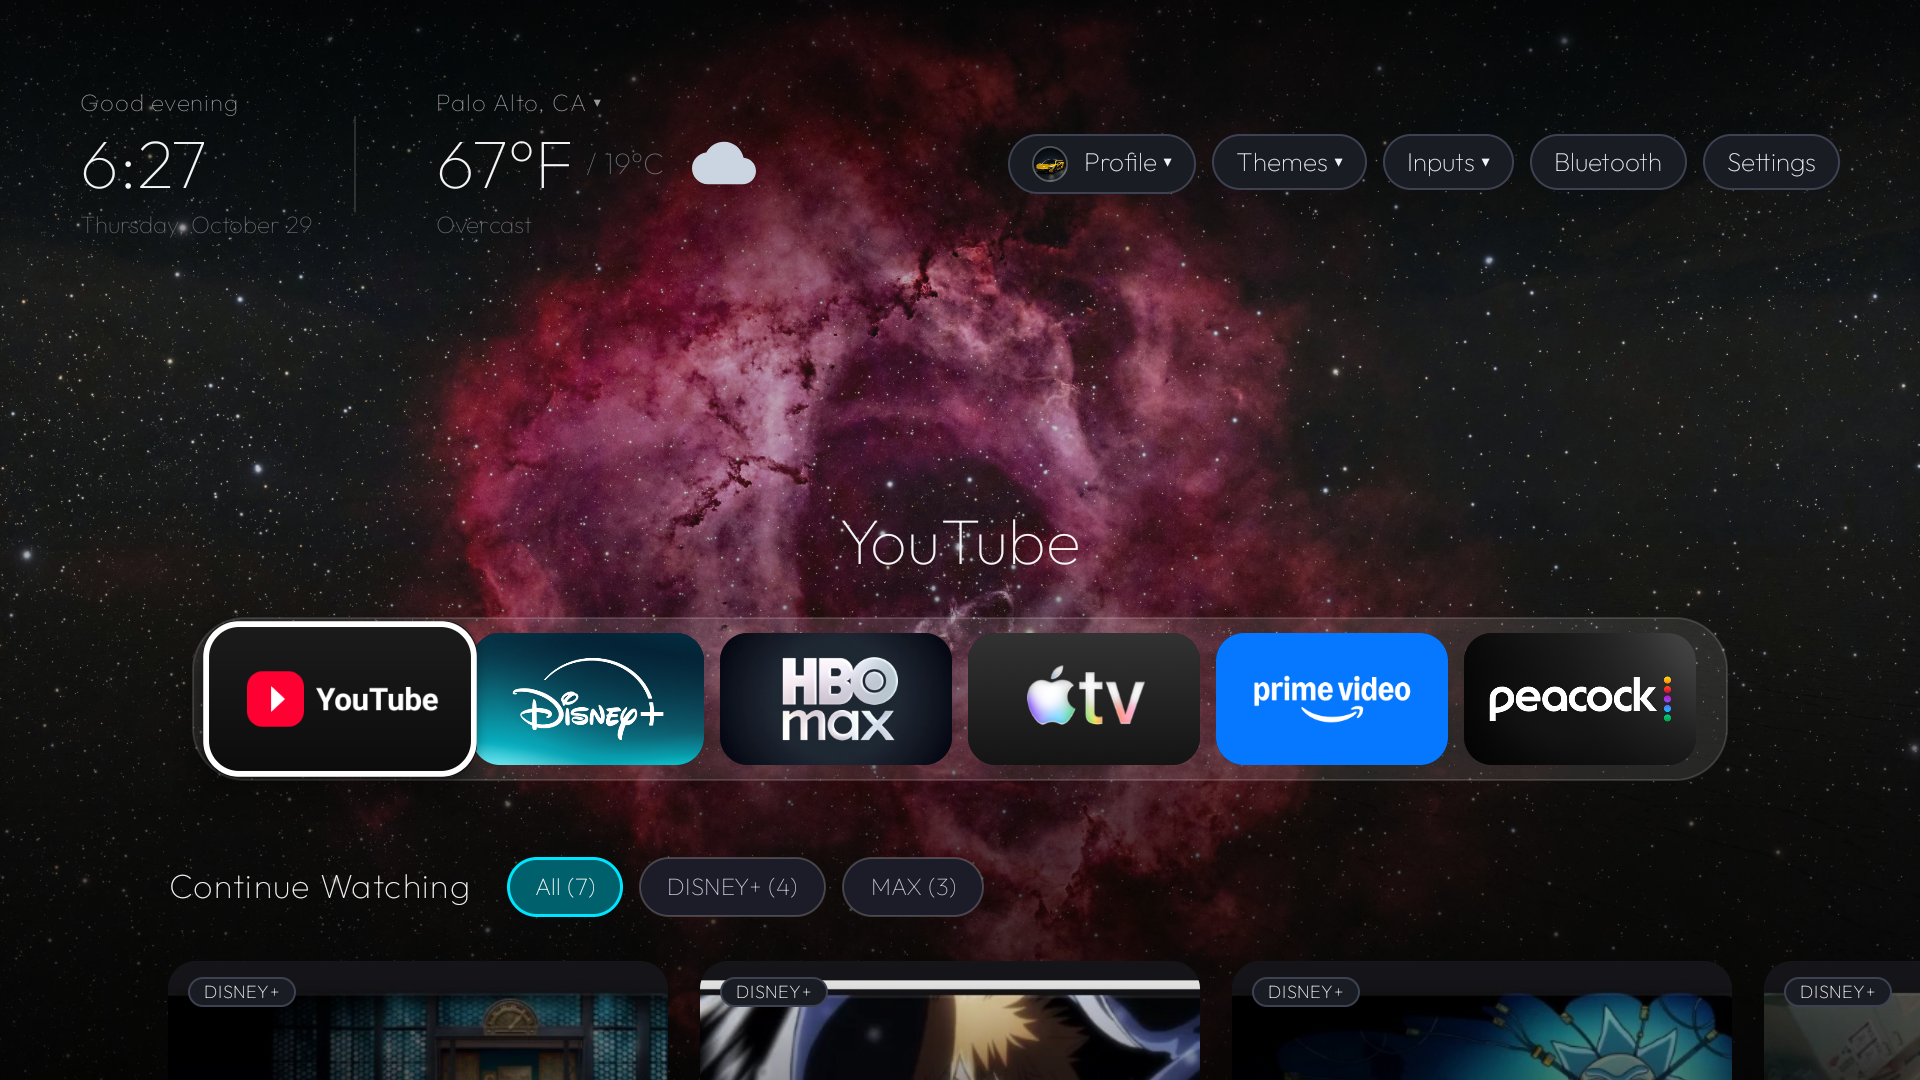
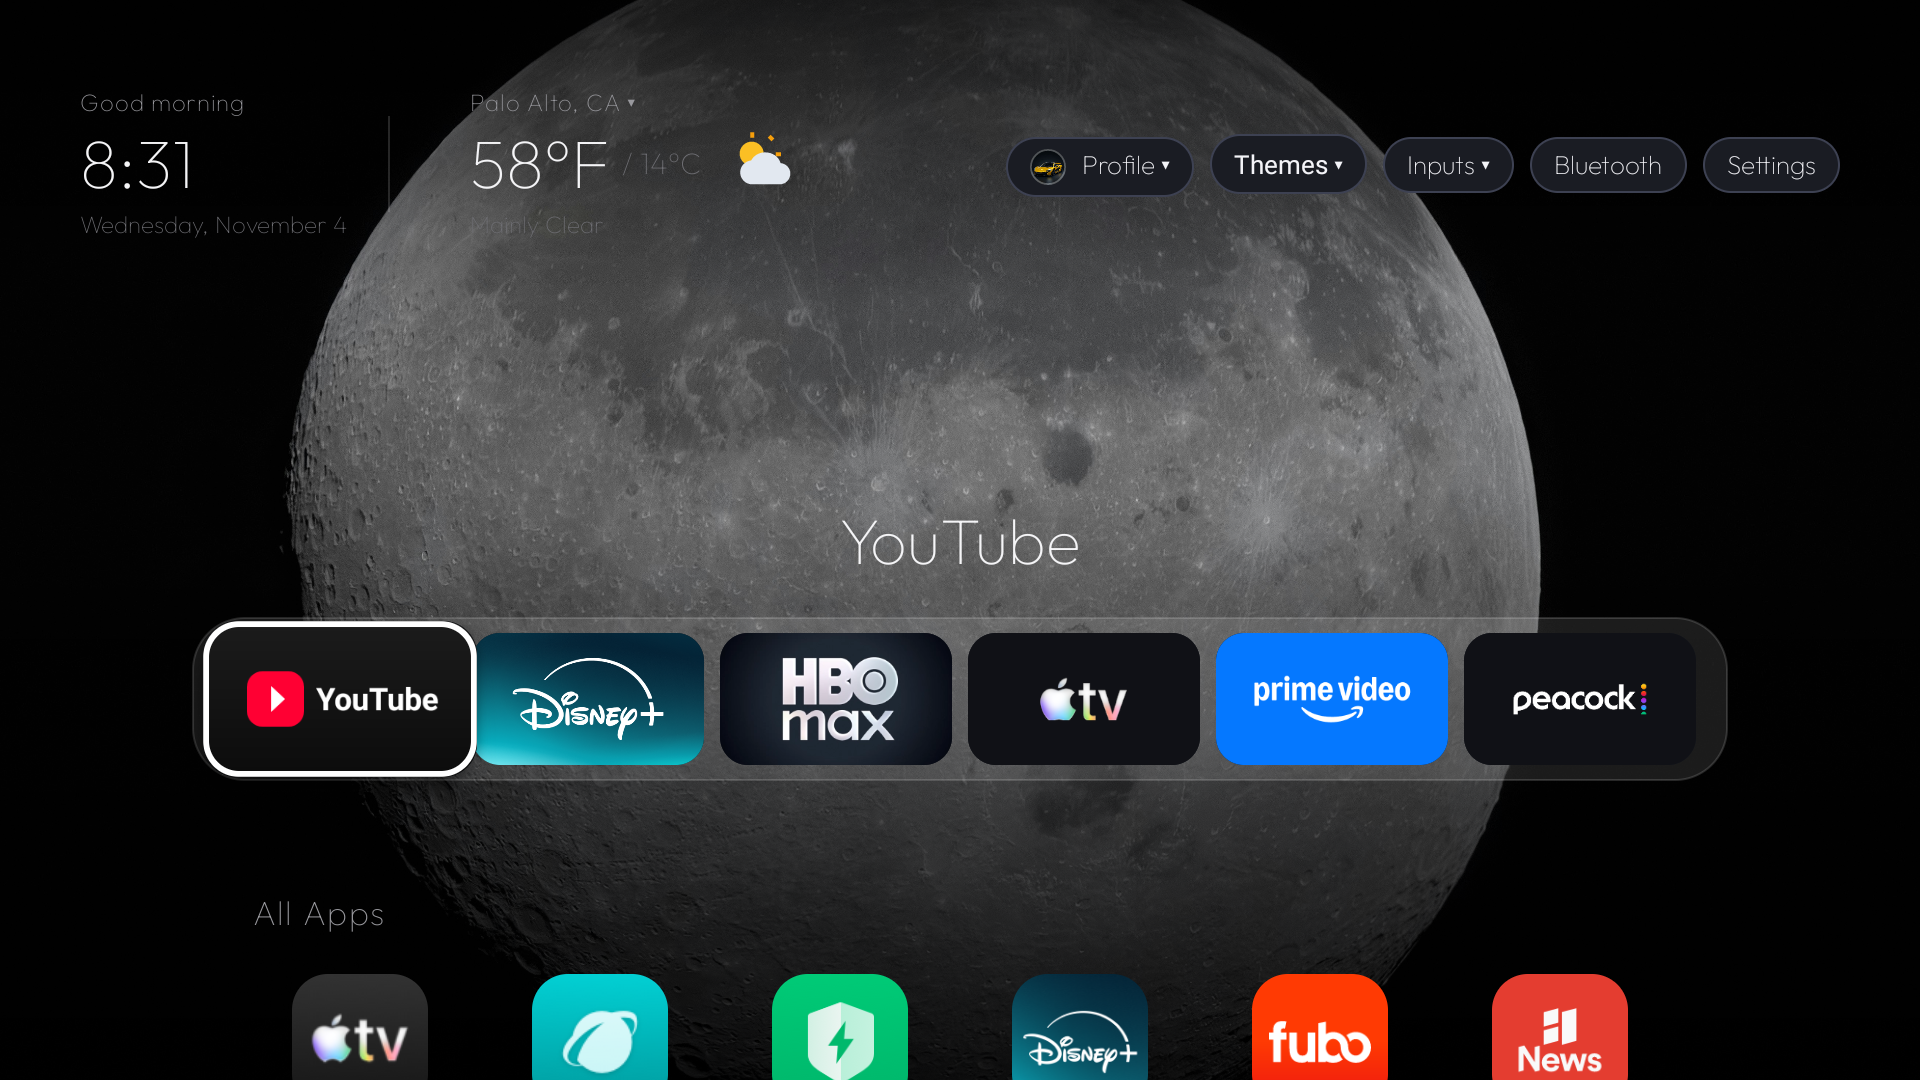
docs(readme): update screenshots and documentation removing continue watching segments

diff --git a/launcher/app/src/main/java/com/cleantv/launcher/MainActivity.java b/launcher/app/src/main/java/com/cleantv/launcher/MainActivity.java
@@ -203,7 +203,7 @@ public class MainActivity extends Activity {
     private TextView tvWeatherCondition;
 
     private TextView btnProfile;
-    private boolean anonymousScreenshotMode = false;
+    private static boolean anonymousScreenshotMode = false;
 
     private TextView btnTheme;
 
@@ -5749,7 +5749,7 @@ public class MainActivity extends Activity {
                     card.setTranslationZ(4f * density);
                     tvTitle.setTextColor(0xFFFFFFFF);
                     tvDesc.setTextColor(0xFFDDFBFF);
-                    tvBadge.setTextColor(0xFF00E5FF);
+                    tvBadge.setTextColor(0xFF000000);
                 } else {
                     card.setTranslationZ(0f);
                     if (isCur) {
@@ -5758,7 +5758,7 @@ public class MainActivity extends Activity {
                         bg.setStroke((int) (1.5f * density), 0x7700E5FF);
                         tvTitle.setTextColor(Color.WHITE);
                         tvDesc.setTextColor(0xFF9E9EA8);
-                        tvBadge.setTextColor(0xFF00E5FF);
+                        tvBadge.setTextColor(0xFF000000);
                     } else {
                         // Inactive cards
                         bg.setColor(0x14FFFFFF);

diff --git a/README.md b/README.md
@@ -12,7 +12,7 @@
 
 # Nexus TV Launcher
 
-**Nexus TV Launcher** is a lightweight, ad-free, high-performance custom launcher engineered specifically for Android TV, Google TV, and Fire TV devices. It completely replaces the bloated, recommendation-heavy stock interfaces with a sleek, minimalist home screen featuring fluid GPU-accelerated wave wallpapers, unified Continue Watching shelves, multi-profile user management with custom avatars, and zero-flicker wake masking.
+**Nexus TV Launcher** is a lightweight, ad-free, high-performance custom launcher engineered specifically for Android TV, Google TV, and Fire TV devices. It completely replaces the bloated, recommendation-heavy stock interfaces with a sleek, minimalist home screen featuring fluid GPU-accelerated wave wallpapers, a 6-app quick-access dock, a 6-column phone-style alphabetical app drawer, multi-profile user management with custom avatars, and zero-flicker wake masking.
 
 ---
 
@@ -20,7 +20,7 @@
 
 - **Zero Ads and Clutter**: No sponsored banners, promotional auto-playing videos, or forced recommendation tiles.
 - **Zero-Flicker Instant Wake**: Specialized accessibility overlay service runs at Layer 29 (`TYPE_ACCESSIBILITY_OVERLAY`) to completely occlude the stock launcher during device power-on, screen wake, and Home button presses.
-- **Unified "Continue Watching" Shelf**: Aggregates playback history and deep links directly into Disney+, HBO Max, Apple TV+, Prime Video, Netflix, Peacock, and Hulu with entity UUID deep linking.
+- **Phone-Style Alphabetical App Drawer**: 6-column squircle grid with strict A-to-Z sorting and remote D-pad navigation across all installed television applications.
 - **Multi-User Profiles with Custom Avatars**:
   - Dedicated **Account Button** support (`KEYCODE_PROFILE_SWITCH` / keycode 288) triggers the custom User Menu dialog.
   - High-resolution illustrated character avatars across 10 categories (Superheroes, Sci-Fi, Landscapes, Space, Pop Culture, Animals, Cars, Anime, and Abstract) as well as gradient monograms.
@@ -50,7 +50,7 @@ Nexus TV Launcher transforms ordinary smart televisions into clean, responsive, 
 | Stock Manufacturer Launcher | Nexus TV Launcher |
 | :--- | :--- |
 | **Aggressive Advertisements**: Full-screen auto-playing promotional trailers, banner ads, and sponsored partner banners. | **Zero Ads**: 100% clean, silent, and distraction-free interface focused purely on your media. |
-| **Bloated Clutter**: Dozens of endless algorithmic rows and uncurated recommendations pushing unwanted services. | **Minimalist Architecture**: A single fluid app dock and a unified Continue Watching shelf. |
+| **Bloated Clutter**: Dozens of endless algorithmic rows and uncurated recommendations pushing unwanted services. | **Minimalist Architecture**: A single fluid app dock and a clean 6-column alphabetical app drawer with zero uncurated rows. |
 | **Laggy Navigation**: Stuttering UI frames due to background telemetry, store polling, and heavy JavaScript runtimes. | **Native 60 FPS Leanback**: Lightweight native Android Java codebase with instant Layer-29 zero-flicker masking. |
 | **Static Locked Aesthetics**: Fixed manufacturer branding with no aesthetic personalization. | **Dynamic 4K Slideshow Themes**: Curated 4K Nature, Deep Space, World Cities, and procedurally rendered fluid wave mesh. |
 
@@ -110,14 +110,14 @@ Household members each get independent watch queues, personalized continue-watch
 
 ---
 
-### Unified Continue Watching with Provider Filters
+### Alphabetical Phone-Style App Drawer
 
-Direct entity-level deep linking resumes playback in one click across Disney+, HBO Max, Apple TV+, Prime Video, Netflix, and Peacock:
+A clean 6-column grid organizes every installed application in strict alphabetical order with squircle icons and centered labels:
 
 <p align="center">
-  <img src="assets/screenshots/07-continue-watching-shelf.png" alt="Continue Watching Shelf & Provider Filtering" width="880" />
+  <img src="assets/screenshots/07-all-apps-grid.png" alt="6-Column Alphabetical Phone-Style App Drawer Grid" width="880" />
   <br />
-  <em>Provider filter pills (All, Disney+, Max, etc.), precise resume percentage bars, and instant launch routing.</em>
+  <em>Phone-style 6-column app drawer with strict A-to-Z sorting, squircle icons, and smooth vertical D-pad navigation.</em>
 </p>
 
 ---
@@ -168,10 +168,10 @@ Nexus TV Launcher resolves this via `HomeButtonAccessibilityService`:
 2. Employs a pre-staged `TYPE_ACCESSIBILITY_OVERLAY` surface at window layer 29.
 3. Automatically occludes stock frames during transition windows (15ms - 150ms) before smoothly revealing the Nexus TV home canvas.
 
-### 2. Multi-Profile Storage & Deep Linking
-User profiles and continue watching entries are stored in sandboxed `SharedPreferences` structured as:
-- `custom_shows_json_<profile_name>`: Active queue of shows and movies with playback percentages.
-- Canonical entity link resolver: Converts show metadata into native application intents (e.g. `https://www.disneyplus.com/series/...`, `https://play.max.com/show/...`, `https://app.primevideo.com/detail?gti=...`).
+### 2. Multi-Profile Storage & Profile Isolation
+User profiles, preferences, and custom avatar mappings are stored in sandboxed `SharedPreferences`:
+- Dedicated profile partitions for personalized wallpapers, themes, and dock configurations.
+- Fast switching between household member profiles with instant avatar visual updates.
 
 ---
 

diff --git a/docs/todos.md b/docs/todos.md
@@ -376,3 +376,15 @@ esolveAppBanner() in MainActivity.java to supply dedicated 16:9 assets when pack
   - Deployed to Amazon Fire TV (`10.0.0.169:5555`) and Hisense Google TV (`10.0.0.96:5555`).
   - Captured live screenshot on Fire TV visually verifying pristine Home screen with all 6 channels rendered in uniform 16:9 format and zero Continue Watching shelf clutter.
 
+### Phase 29 - Visual Documentation Refresh, Native Screenshot Recapture, and Theme Dialog Polish
+
+- [x] On-Device Native Screenshot Recaptures:
+  - Recaptured all 7 1080p native screenshots across all themes (Dynamic Abstract, 4K Nature, 4K Space, 4K Cities) directly from live television hardware.
+  - Ensured all home screen screenshots completely eliminate Continue Watching segments, displaying the curated 6-channel dock directly transitioning to the All Apps drawer.
+  - Replaced obsolete Continue Watching shelf screenshot (`07-continue-watching-shelf.png`) with the 6-column alphabetical app drawer grid (`07-all-apps-grid.png`).
+- [x] README Showcase and Architecture Update:
+  - Updated `README.md` intro, highlights, comparison table, and visual showcase sections to reflect the 6-column phone-style app drawer and retired Continue Watching shelf.
+- [x] Themes Dialog Badge Contrast and Anonymous Mode Persistence:
+  - Fixed theme card `ACTIVE` badge text color in `MainActivity.java` from cyan (`0xFF00E5FF`) to bold black (`0xFF000000`) for high contrast on the electric-cyan pill.
+  - Persisted `anonymousScreenshotMode` statically to maintain privacy-safe labels across activity resume and key navigation cycles.
+

diff --git a/docs/known-gaps.md b/docs/known-gaps.md
@@ -59,3 +59,4 @@ Future engineering efforts may evaluate the following potential vectors if live 
 | **Trakt.tv / Simkl Scrobbler Integration** | Cloud Webhook / OAuth Sync | Requires the user to link their streaming accounts to a third-party tracking service (e.g., Trakt), which exposes an official REST API with authorized watch history. |
 | **System-Level Privileged App (`priv-app`)** | Root / System ROM Placement | On rooted hardware, placing Clean TV Launcher in `/system/priv-app/` allows reading system logs (`logcat -b events`) and inter-app broadcasts, though streaming app databases remain encrypted. |
 | **Local Network Packet Inspection** | Local VPN / MitM Proxy | Running a local pseudo-VPN service on Android to intercept telemetry pings. Non-viable without installing custom CA root certificates on the TV, which modern Android and streaming DRM strictly reject. |
+
